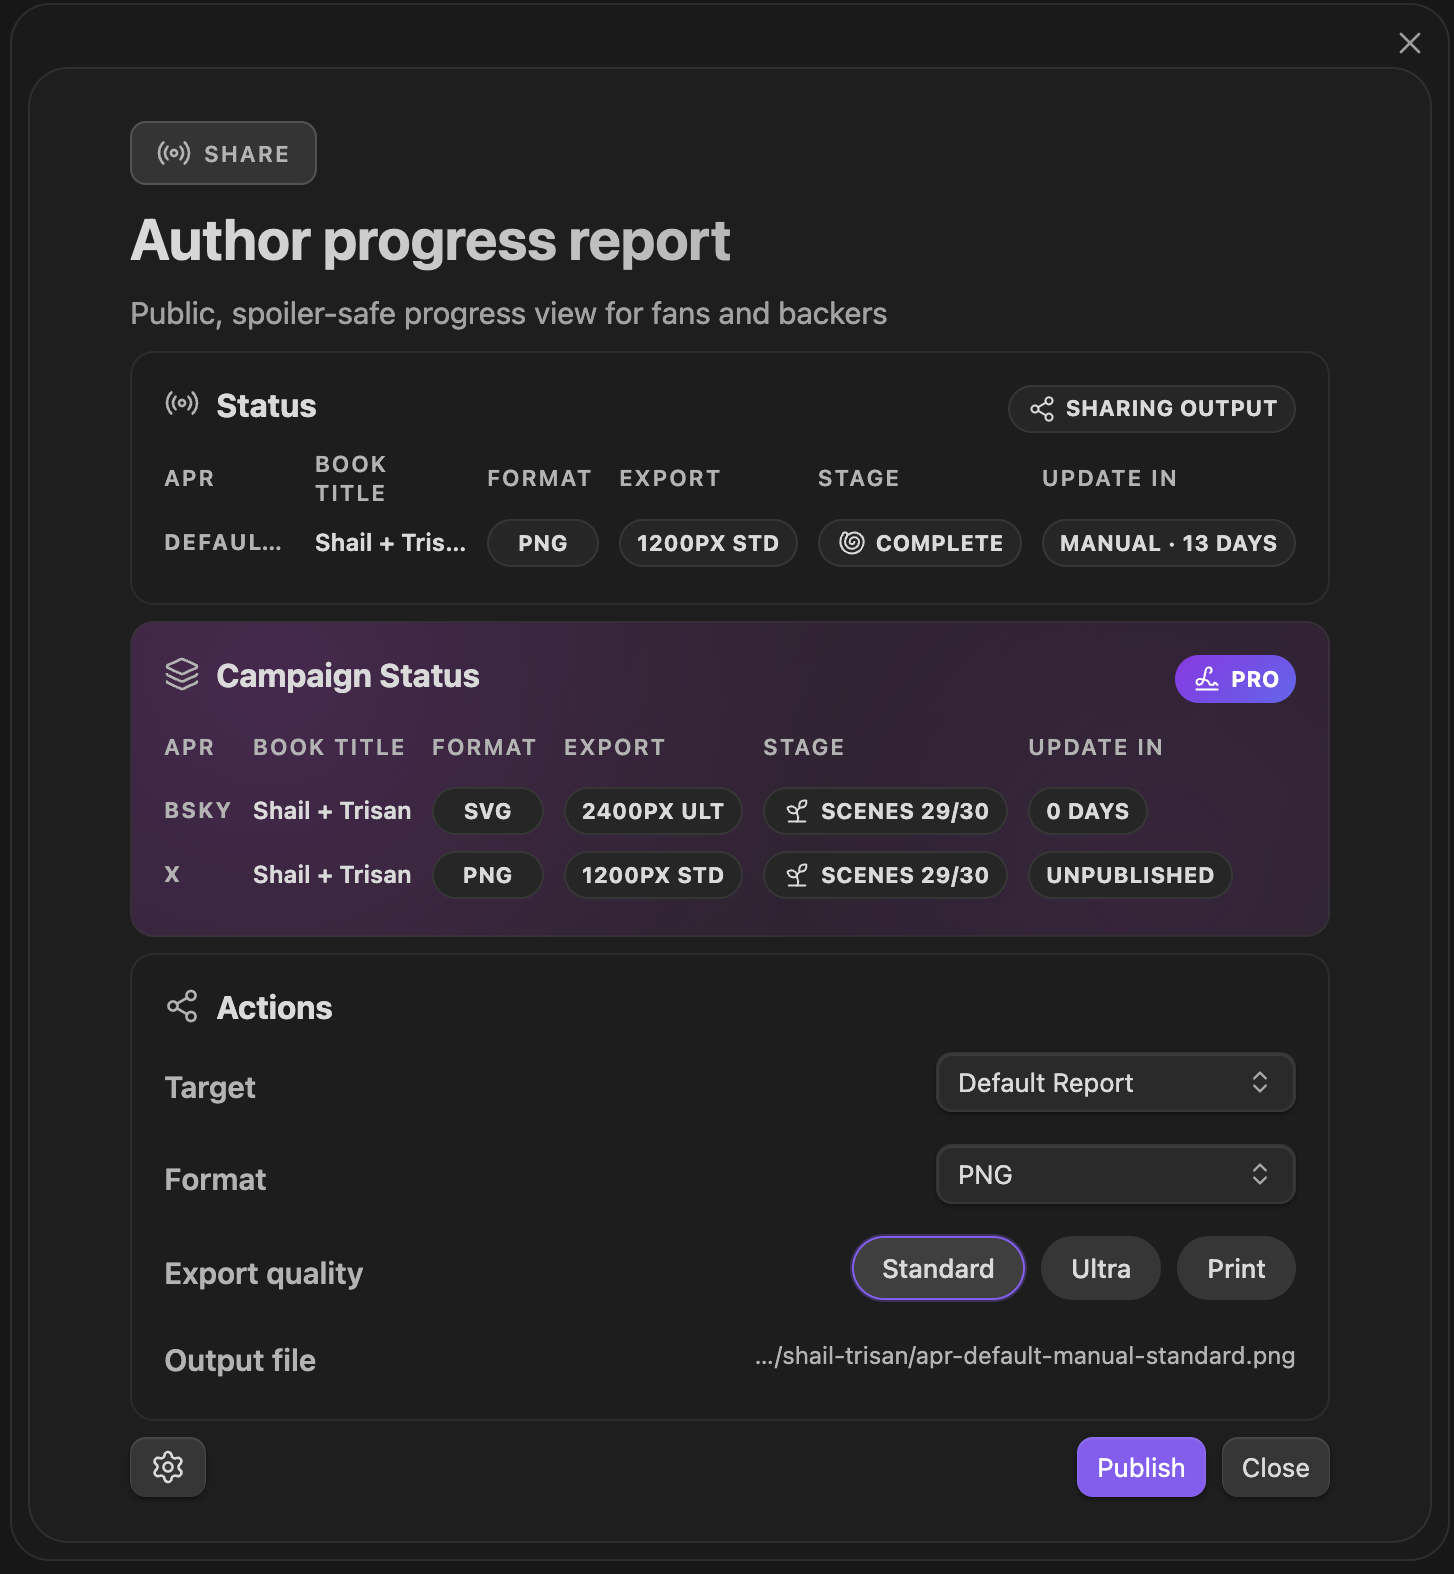
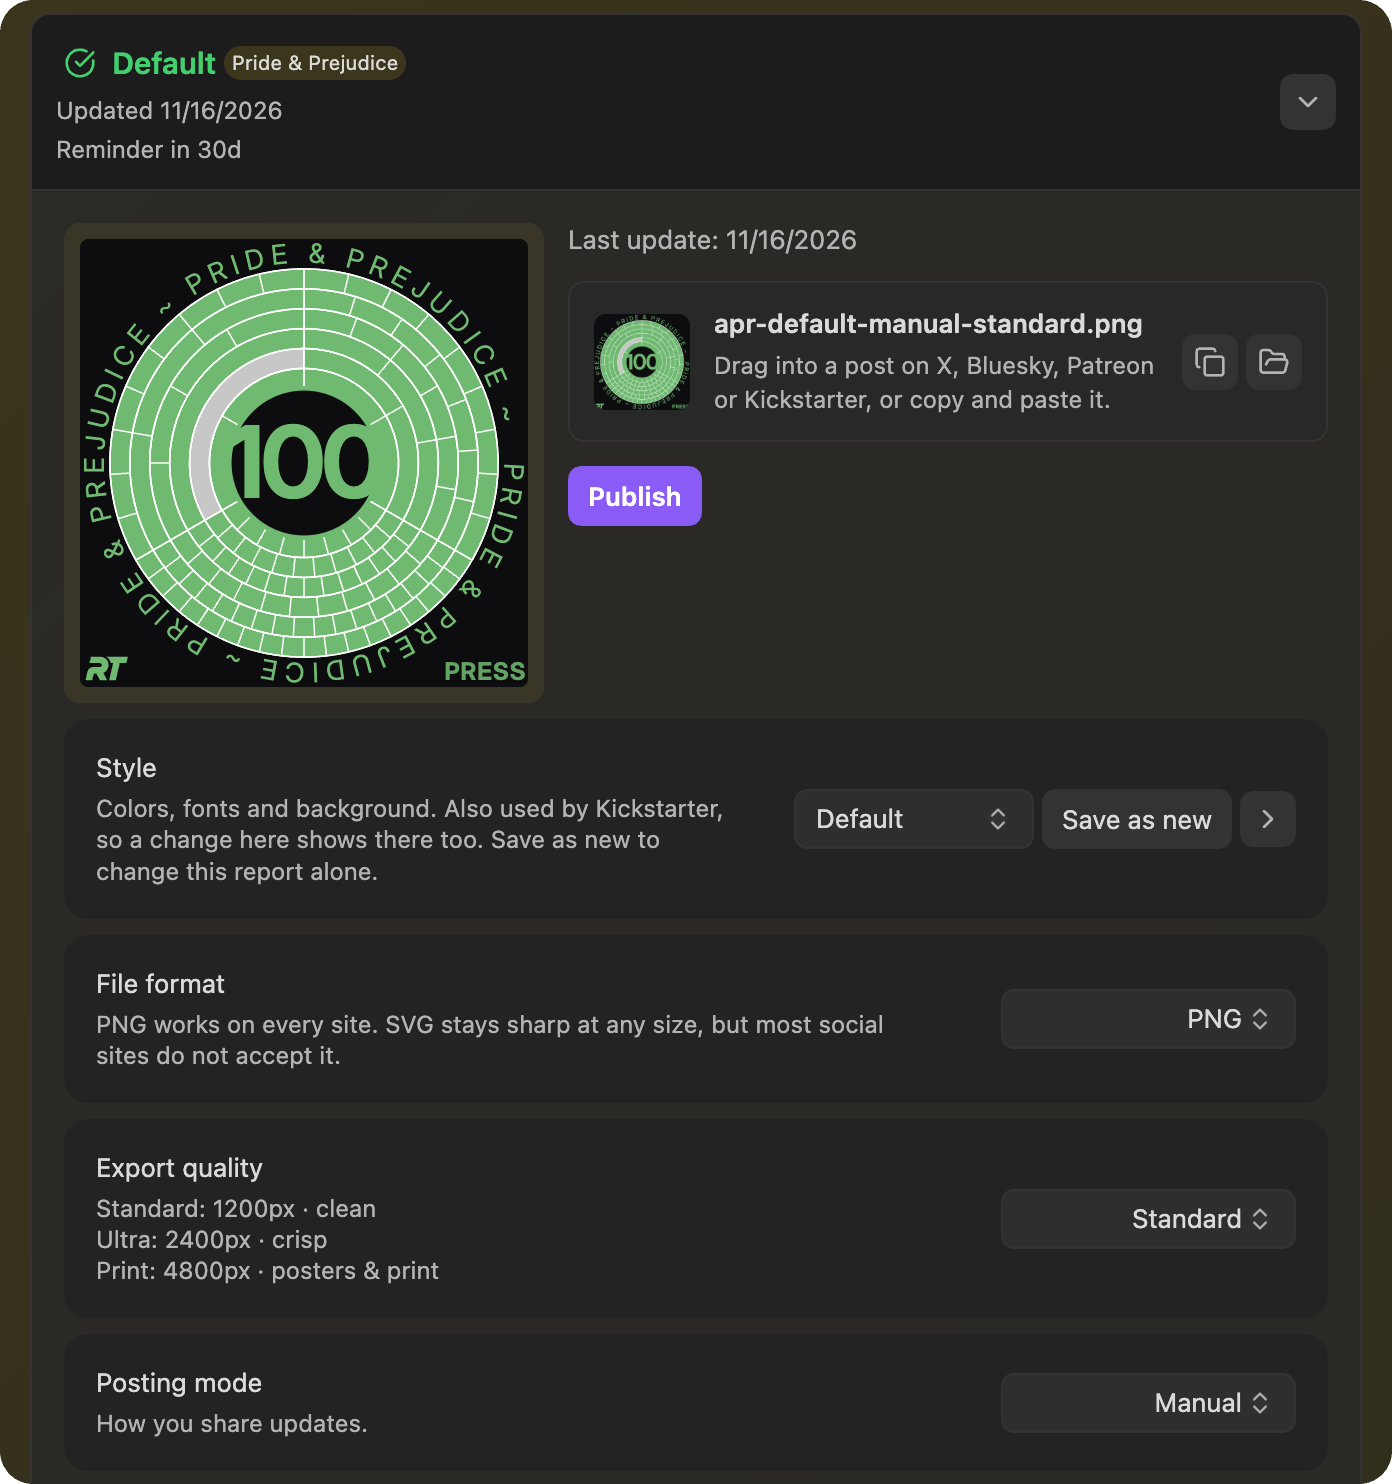
Wiki: recapture the Social screenshots for the Reports list
settings-social and panel-apr still showed the Social tab from before
c1592ae0. Both are recaptured from a copy of the Pride & Prejudice demo
vault (Testing Vaults/2026-11-16 Social wiki screenshots) with the
current build:

- settings-social: hero, the Reports list with Default and a Kickstarter
  campaign, and Progress tracking. Now a PNG so the rounded corners can
  be transparent (a JPG cannot hold them); the wiki link follows.
- panel-apr: the Default report open with the designer collapsed:
  preview, share file, Publish, Style row and the first settings.

Both have ~12px rounded corners at display size baked in. Alt text and
caption describe the new pictures.

diff --git a/wiki/Author-Progress-Report.md b/wiki/Author-Progress-Report.md
@@ -1,10 +1,10 @@
-<p align="center"><img src="images/settings-social.jpg" alt="Settings → Social tab" width="600"></p>
+<p align="center"><img src="images/settings-social.png" alt="Settings → Social tab: the Reports list with the Default report and a Kickstarter campaign, and Progress tracking" width="600"></p>
 <p align="center"><sub>Settings → Social</sub></p>
 
 The Author Progress Report (APR) creates a spoiler-safe progress graphic for newsletters, social posts, Patreon, and Kickstarter updates.
 
-<p align="center"><img src="images/panel-apr.png" alt="Author Progress Report panel with preview and export options" width="500"></p>
-<p align="center"><sub>Author Progress Report — configure, preview, and export your progress graphic</sub></p>
+<p align="center"><img src="images/panel-apr.png" alt="The Default report open: preview, share file, Publish, Style and export settings" width="500"></p>
+<p align="center"><sub>An open report — preview, share file, Publish, style and settings</sub></p>
 
 ## Reports
 
